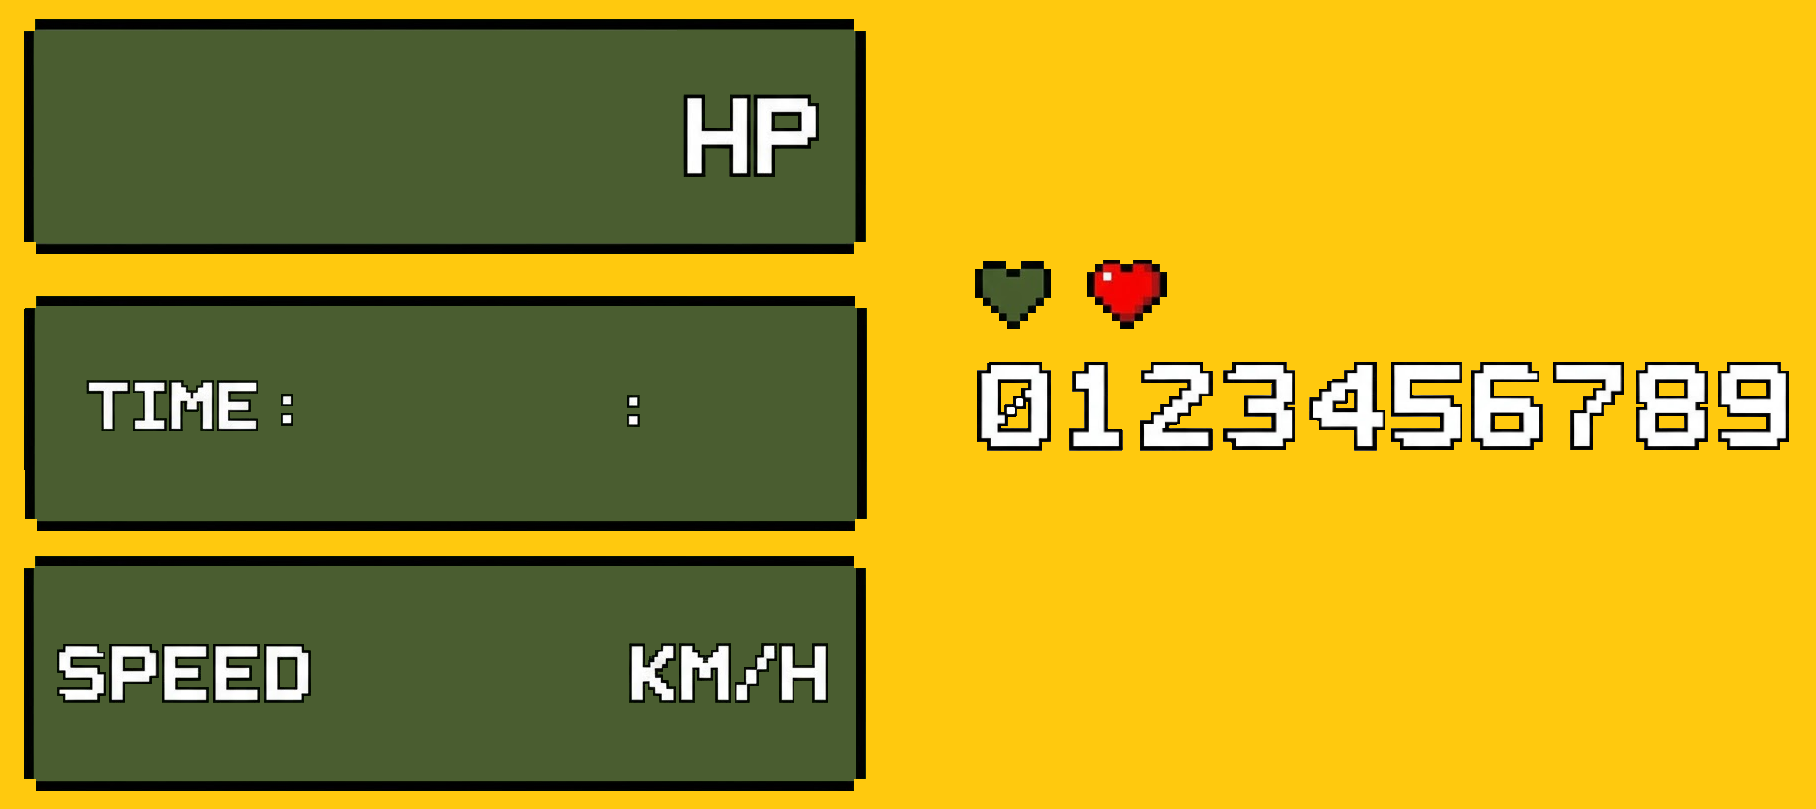
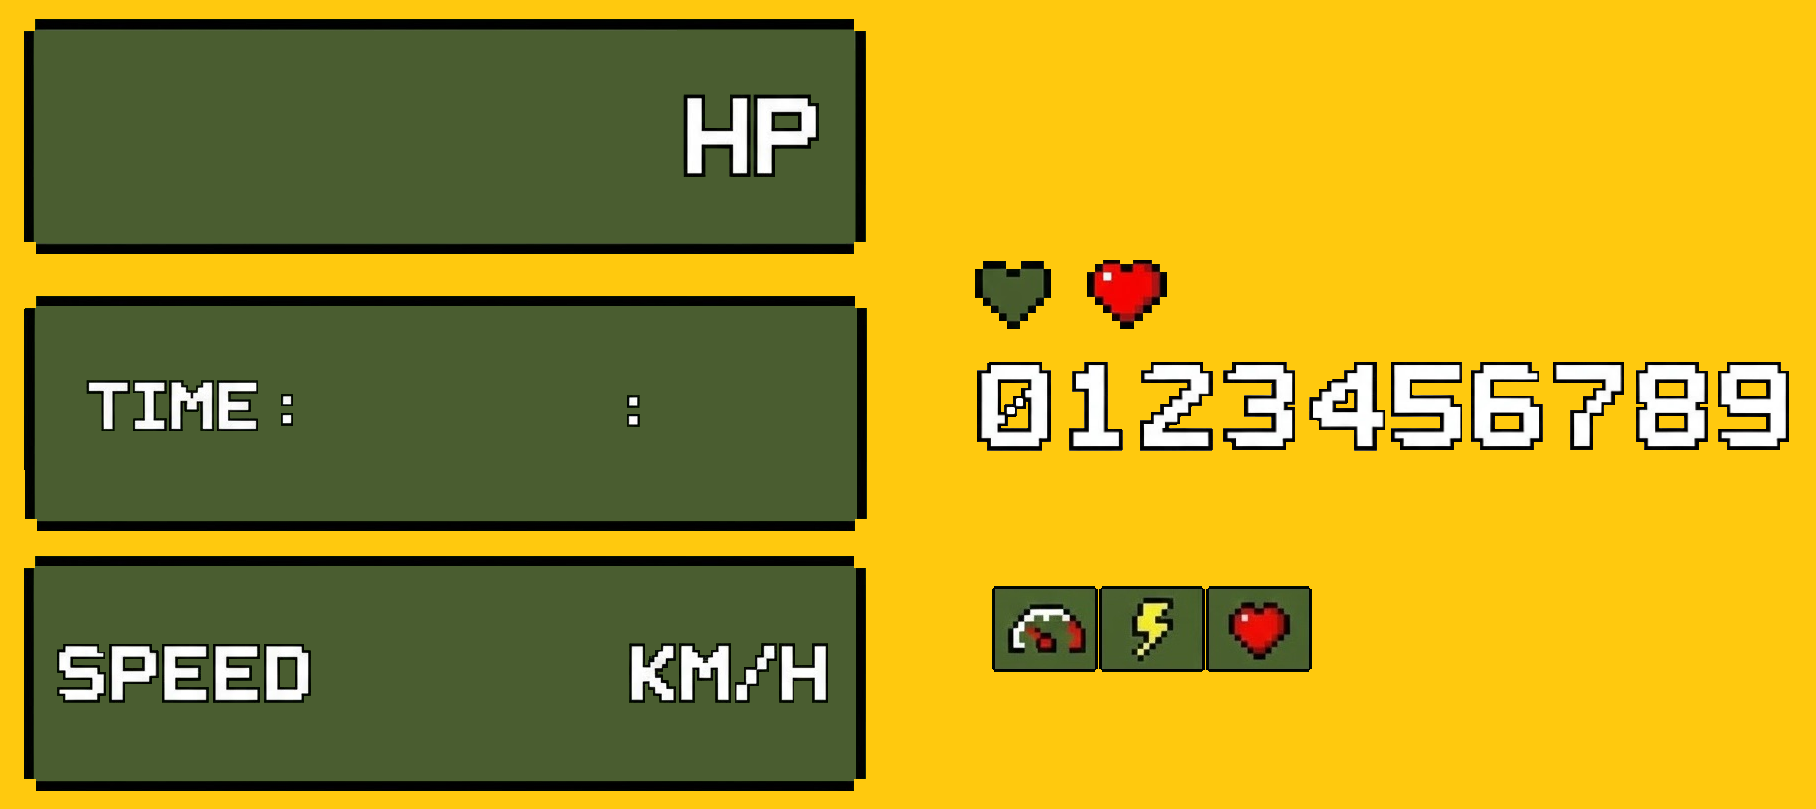
Agrego mejoras al HUD

Changed region(s): [[0.5242, 0.7108, 0.7401, 0.8344]]

diff --git a/client/game_window.cpp b/client/game_window.cpp
@@ -455,6 +455,41 @@ void GameWindow::drawMarketCountdown(Renderer& renderer,
     renderer.Copy(market, src_units, dst_units);
 }
 
+void GameWindow::drawUpgradesBar(Renderer& renderer,
+                                 Texture& hud,
+                                 int hudX, int hudY,
+                                 bool speedActive,
+                                 bool accelActive,
+                                 bool healthActive)
+{
+    const float SCALE = 0.7f;
+    const int ICON_W = int(106 * SCALE);
+    const int ICON_H = int(86  * SCALE);
+    const int SPACE  = 6;
+
+    int x = hudX;
+
+    if (speedActive) {
+        renderer.Copy(hud,
+                      game_sprites.getUpgradeSpeedRect(),
+                      Rect(x, hudY, ICON_W, ICON_H));
+    }
+    x += ICON_W + SPACE;
+
+    if (accelActive) {
+        renderer.Copy(hud,
+                      game_sprites.getUpgradeAccelRect(),
+                      Rect(x, hudY, ICON_W, ICON_H));
+    }
+    x += ICON_W + SPACE;
+
+    if (healthActive) {
+        renderer.Copy(hud,
+                      game_sprites.getUpgradeHealthRect(),
+                      Rect(x, hudY, ICON_W, ICON_H));
+    }
+}
+
 
 void GameWindow::drawGame(Renderer& renderer,
                          Texture& hud,
@@ -600,6 +635,16 @@ void GameWindow::drawGame(Renderer& renderer,
             hp = new_hp;
         }
 
+        bool speed_upgrades = true;
+        bool accel_upgrades = true;
+        bool health_upgrades = true;
+        
+        // if (me) {
+        //     speed_upgrades = me->speed_upgrades;
+        //     accel_upgrades = me->accel_upgrades;
+        //     health_upgrades = me->health_upgrades;
+        // }
+
         drawCheckpoint(renderer, checkpoint_flag, last_state, srcRect, viewW,viewH);
 
         for (size_t i = 0; i < last_state.players.size(); i++) {
@@ -672,6 +717,16 @@ void GameWindow::drawGame(Renderer& renderer,
         hudX += BOX_W + HUD_PAD;
 
         drawCronometer(renderer, hud, hudX, hudY, last_state);
+
+        hudX += BOX_W + HUD_PAD;
+
+        drawUpgradesBar(renderer,
+                        hud,
+                        hudX,
+                        hudY,
+                        speed_upgrades,
+                        accel_upgrades,
+                        health_upgrades);
 
         drawMinimap(background, renderer, last_state, dstRect, checkpoint_flag);
 

diff --git a/client/client_sprites.cpp b/client/client_sprites.cpp
@@ -104,7 +104,11 @@ const SDL2pp::Rect SpritesManager::TIME_SS_UNITS  = SDL2pp::Rect(742, 358, 82, 1
 const SDL2pp::Rect SpritesManager::SPEED_HUNDREDS = SDL2pp::Rect(342, 619, 82, 100);
 const SDL2pp::Rect SpritesManager::SPEED_TENS     = SDL2pp::Rect(434, 619, 82, 100);
 const SDL2pp::Rect SpritesManager::SPEED_UNITS    = SDL2pp::Rect(525, 619, 82, 100);
-#include "client_sprites.h"
+
+// Iconos de upgrades en hud.png
+const SDL2pp::Rect SpritesManager::UPGRADE_SPEED  = SDL2pp::Rect(992,  586, 106, 86);
+const SDL2pp::Rect SpritesManager::UPGRADE_ACCEL  = SDL2pp::Rect(1099, 586, 106, 86);
+const SDL2pp::Rect SpritesManager::UPGRADE_HEALTH = SDL2pp::Rect(1206, 586, 106, 86);
 
 
 const SDL2pp::Rect& SpritesManager::getCarRect(CarType carType, int frameId) const {
@@ -165,5 +169,10 @@ const SDL2pp::Rect& SpritesManager::getTimeDigitRectSsUnits()  const { return TI
 const SDL2pp::Rect& SpritesManager::getSpeedDigitRectHundreds() const { return SPEED_HUNDREDS; }
 const SDL2pp::Rect& SpritesManager::getSpeedDigitRectTens()     const { return SPEED_TENS; }
 const SDL2pp::Rect& SpritesManager::getSpeedDigitRectUnits()    const { return SPEED_UNITS; }
+
+const SDL2pp::Rect& SpritesManager::getUpgradeSpeedRect() const { return UPGRADE_SPEED; }
+const SDL2pp::Rect& SpritesManager::getUpgradeAccelRect() const { return UPGRADE_ACCEL; }
+const SDL2pp::Rect& SpritesManager::getUpgradeHealthRect() const { return UPGRADE_HEALTH; }
+
 
 SpritesManager::SpritesManager() {}

diff --git a/client/client_sprites.h b/client/client_sprites.h
@@ -43,6 +43,10 @@ public:
 
     const SDL2pp::Rect& getMarketDigitRect(int d) const;
 
+    const SDL2pp::Rect& getUpgradeSpeedRect() const;
+    const SDL2pp::Rect& getUpgradeAccelRect() const;
+    const SDL2pp::Rect& getUpgradeHealthRect() const;
+
 private:
     // Autos
     static const std::map<int, SDL2pp::Rect> carPositionsGreen;
@@ -84,4 +88,10 @@ private:
     static const SDL2pp::Rect SPEED_HUNDREDS;
     static const SDL2pp::Rect SPEED_TENS;
     static const SDL2pp::Rect SPEED_UNITS;
+
+    // HUD: iconos de mejoras
+    static const SDL2pp::Rect UPGRADE_SPEED;
+    static const SDL2pp::Rect UPGRADE_ACCEL;
+    static const SDL2pp::Rect UPGRADE_HEALTH;
+
 };

diff --git a/client/game_window.h b/client/game_window.h
@@ -137,6 +137,14 @@ private:
                             int seconds,
                             int viewW, int viewH);
         
+    void drawUpgradesBar(SDL2pp::Renderer& renderer,
+                        SDL2pp::Texture& hud,
+                        int hudX, int hudY,
+                        bool speedActive,
+                        bool accelActive,
+                        bool healthActive);
+
+    
 public:
     int runGame();
     uint8_t getCarType(int player_id);
